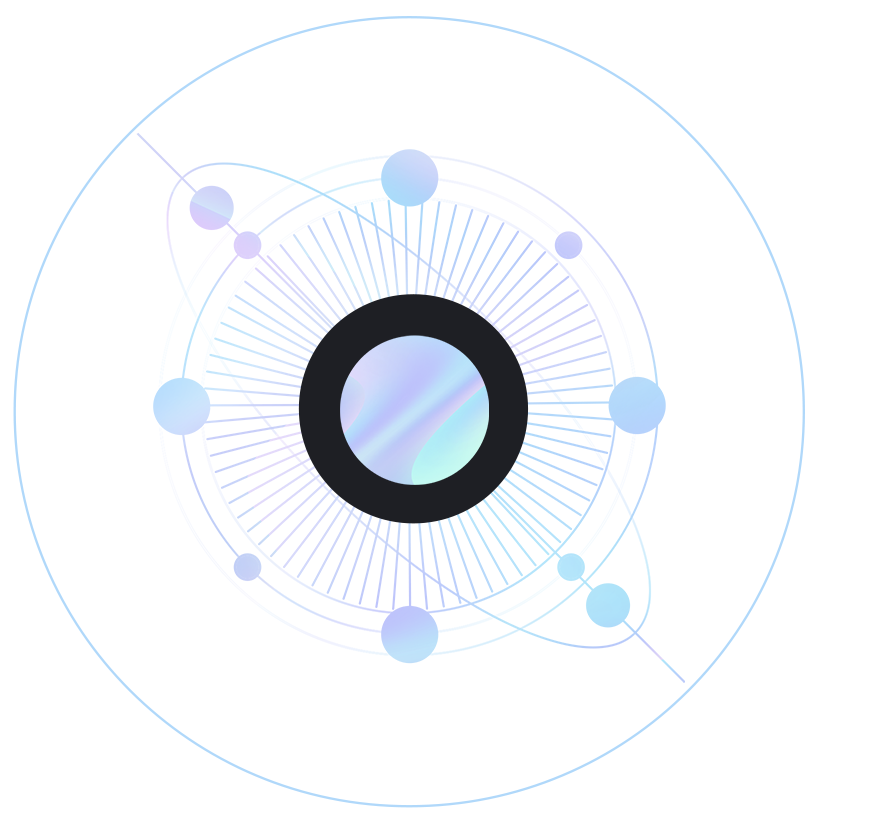
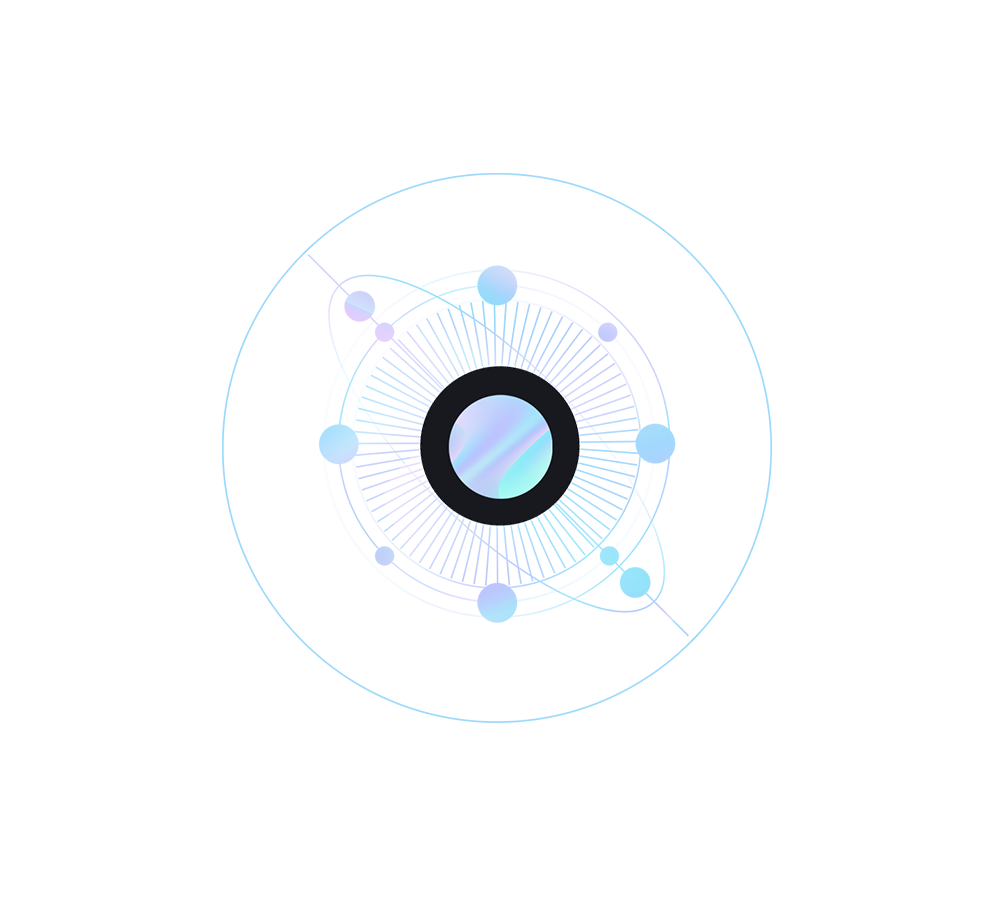
Update styles and assets

diff --git a/index.css b/index.css
@@ -2850,7 +2850,30 @@ footer.u-footer .u-text-3 {
     margin-top: -12px;
     margin-bottom: 40px;
   }
-} .u-section-9 {
+}
+
+.u-section-8 {
+  --section8-width: clamp(220px, 90vw, 547px);
+  gap: 0;
+}
+.u-section-8 .u-sheet-1 { gap: 0; }
+.u-section-8 .u-image-1,
+.u-section-8 .u-image-2 {
+  width: var(--section8-width);
+  height: auto;
+  max-width: 100%;
+  object-fit: contain;
+  object-position: center;
+  margin: 0;
+}
+
+@media (max-width: 767px) {
+  .u-section-8 .u-sheet-1 { gap: 0; align-items: center; justify-content: center; }
+  .u-section-8 .u-image-1,
+  .u-section-8 .u-image-2 { width: var(--section8-width); height: auto; }
+}
+
+.u-section-9 {
   --color-var: #292e33;
 }
 
